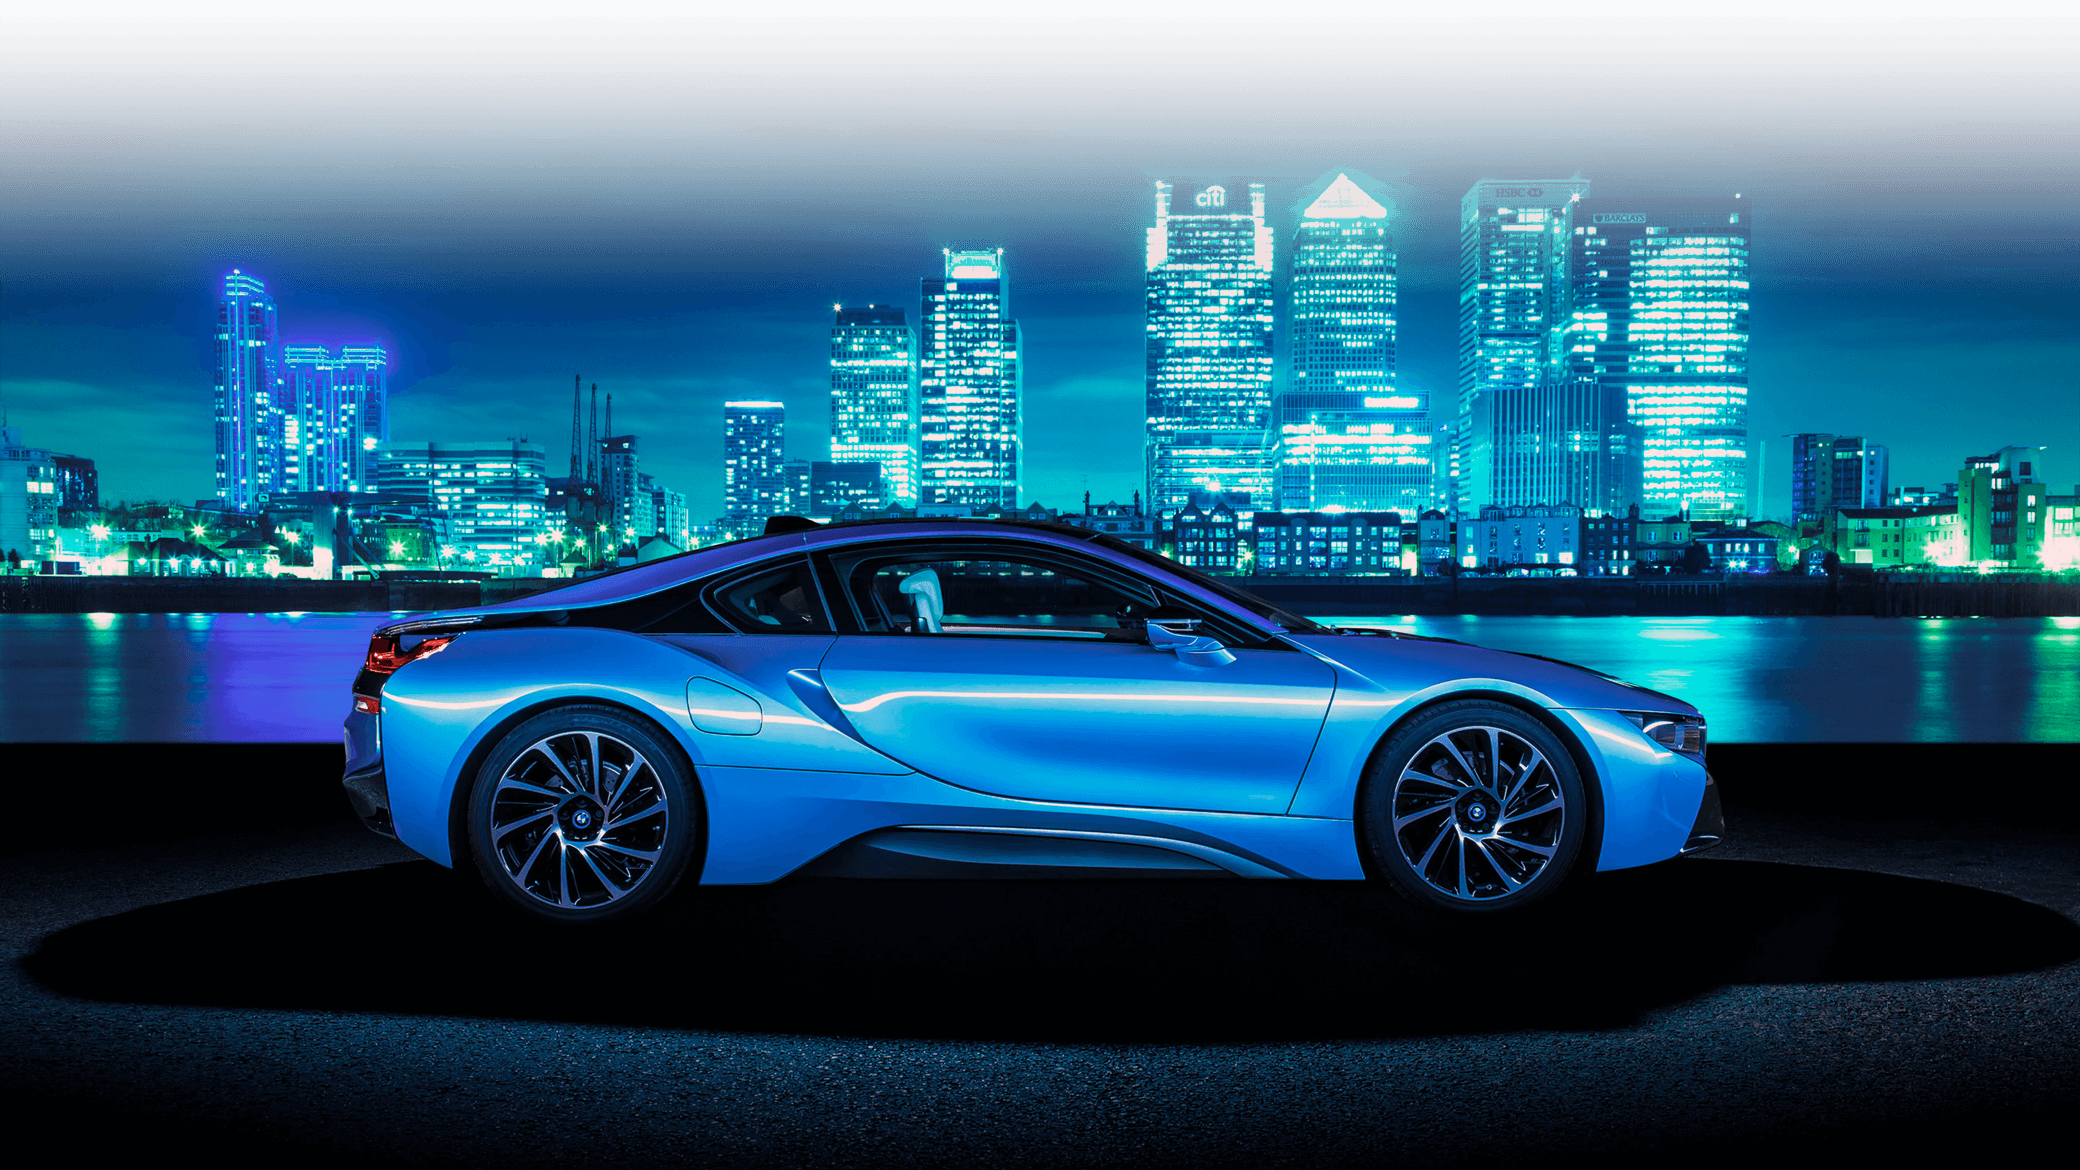
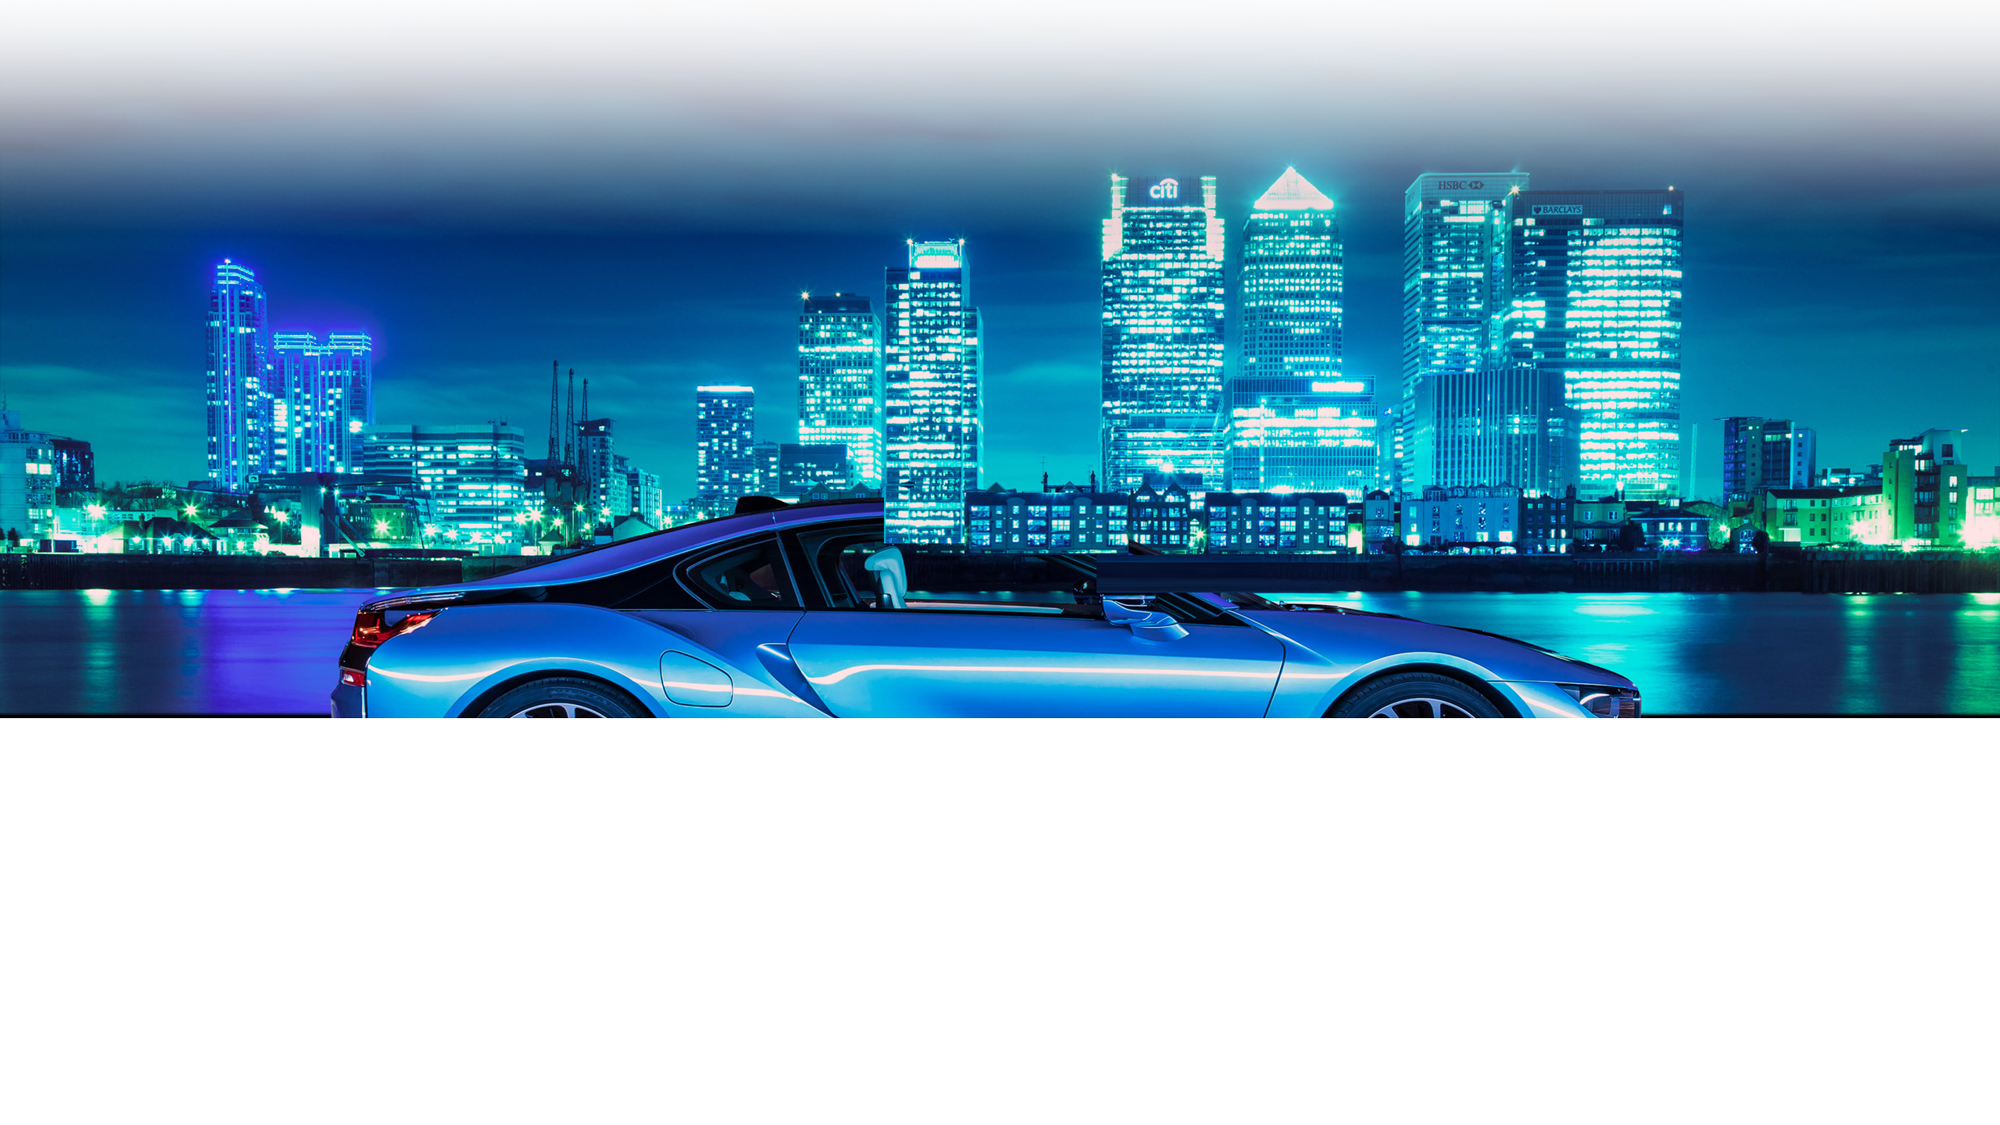
updating homepage

diff --git a/src/modules/index/_index.scss b/src/modules/index/_index.scss
@@ -13,13 +13,116 @@
 
     @include module {
 
+        height: 100vh;
+
         //*********************************************************
         // Core Styles
         //*********************************************************
 
-        background-size: cover;
-        background-repeat: no-repeat;
-        background-position: center -10%;
+        @include component('background') {
+            background-image: url('#{$asset-path}/images/i8-bg.png');
+            background-color: #000e2b;
+            background-size: 100%;
+            background-repeat: no-repeat;
+            background-attachment: fixed;
+            background-position: center 5vw;
+            position: fixed;
+            top: 0;
+            height: 56vw;
+            width: 100%;
+        }
+        
+        @include component('foreground') {
+            background-image: url('#{$asset-path}/images/i8-foreground.png');
+            background-position: center 30vw;
+            background-size: 100%;
+            background-repeat: no-repeat;
+            background-attachment: fixed;
+            position: relative;
+            top: 10%;
+            height: 100%;
+            width: 100%;
+            &:after {
+                content: '';
+                position: absolute;
+                background: #000207;
+                z-index: 0;
+                width: 100%;
+                height: 25%;
+                bottom: -24%;
+            }
+        }
+
+        @include component('intro') {
+            position: relative;
+            padding-bottom: 20%;
+            background-image: url('#{$asset-path}/images/neon-city.png');
+            background-repeat: no-repeat;
+            background-size: 100%;
+            margin-top: 65vw;
+            color: color('greyscale', white);
+            @media (min-width: breakpoint('break-4')) {
+                margin-top: 85vw;
+            }
+            &:before {
+                content: '';
+                background: white;
+                width: 100%;
+                height: 52%;
+                position: absolute;
+                bottom: 0;
+                transform-origin: 0 100%;
+                transform: skewY(-14deg);
+            }
+            @include component('heading') {
+                line-height: 1.3;
+                font-family: 'cyberpnuk2';
+                color: inherit;
+                text-shadow: -3px -3px 0px #fe3e64, 2px 2px 0px #36fd61;
+            }
+            @include component('content') {
+                font-family: 'cyberpnuk2';
+                font-size: font-size('size-4');
+                margin-top: 2.5em;
+                margin-bottom: 3em;
+            }
+        }
+
+        @include component('ribbon') {
+            position: relative;
+            background-color: #0086c9;
+            min-height: 100px;
+            &:before {
+                content: '';
+                pointer-events: none;
+                background: url('#{$asset-path}/images/ribbon.png');
+                background-size: cover;
+                width: 100%;
+                height: 103.5vw;
+                position: absolute;
+                transform: translateY(-100%);
+            }
+        }
+
+        @include component('macbook') {
+            position: relative;
+            @include component('monitor') {
+                position: relative;
+                pointer-events: none;
+                z-index: 2;
+            }
+            @include component('screen') {
+                position: absolute;
+                width: 92.1%;
+                height: 58.3%;
+                left: 4%;
+                top: 4%;
+                overflow: hidden;
+                img {
+                    //transition: 30s;
+                }
+            }
+        }
 
         //*********************************************************
         // Custom Content

diff --git a/src/modules/utilities/typography/_typography.scss b/src/modules/utilities/typography/_typography.scss
@@ -21,41 +21,31 @@
             // Fonts
             //*****************************************************
 
-            @each $typeface, $options in this('typefaces') {
-                // Name of desired font family
-                $font-family: nth($options, 1);
+            @each $font, $options in this('fonts') {
+                // variables
+                $type       : map-get($options, 'type');
+                $family     : map-get($options, 'family');
+                $import-name: str-replace($family, ' ', '+');
+                $styles     : str-replace((inspect(map-get($options, 'styles'))), ' ', '');
 
-                // Convert to a value @import can use
-                $font-name: str-replace($font-family, ' ', '+');
-
-                // Desired font styles
-                $font-styles: list-remove($options, $font-family);
-
-                // Convert to string and remove spaces
-                $font-styles: str-replace((inspect($font-styles)), ' ', '');
-
-                // String to be appended to Google Fonts url
-                $google-font: $font-name + ':' + $font-styles;
-
-                // import the font from the Google Fonts API
-                @if this('import-fonts') {
-                    @import url(http://fonts.googleapis.com/css?family=#{$google-font});
+                @if $type == 'google-font' {
+                    @import url('http://fonts.googleapis.com/css?family=#{$import-name}:#{$styles}');
                 }
 
-                // Get index of typeface
-                $index: index(map-keys(this('typefaces')), $typeface);
-
-                .font-#{$index}, .font-#{$typeface} {
-                    font-family: $font-family;
+                @if $type == 'asset' {
+                    @font-face {
+                        font-family: $family;
+                        src: 
+                            url('#{$asset-path}/fonts/#{$family}/#{$family}.woff2') format('woff2'),
+                            url('#{$asset-path}/fonts/#{$family}/#{$family}.woff') format('woff');
+                    }   
                 }
-            }
 
-            @font-face {
-                font-family: 'aaaiight_fatregular';
-                src: url('../../fonts/aaaiight-fat/aaaiight-fat-webfont.woff2') format('woff2'),
-                     url('../../fonts/aaaiight-fat/aaaiight-fat-webfont.woff')  format('woff');
-                font-weight: normal;
-                font-style: normal;
+                @if this('font-helper-classes') {
+                    .font-#{$family} {
+                        font-family: $family;
+                    }
+                }
             }
 
             //*****************************************************
@@ -120,7 +110,7 @@
 /// @param {string} $typeface - the desired typeface value
 /// @param {string|list} $fallback - the desired fallback typefaces
 @function typeface($typeface, $fallback: ('Open Sans', 'Helvetica Neue', 'Helvetica', 'Arial', sans-serif)) {
-    @return nth(typography('typefaces', $typeface), 1) + ', ' + inspect($fallback);
+    @return map-get(typography('fonts', $typeface), 'family') + ', ' + inspect($fallback);
 }
 
 /// Function to get value from 'sizes' group

diff --git a/src/modules/objects/header/_header.scss b/src/modules/objects/header/_header.scss
@@ -20,7 +20,30 @@
         // Core Styles
         //*********************************************************
 
+        background: linear-gradient(rgba(black, 0), rgba(black, 0));
+        transition: background core('transition');
         overflow: visible;
+        position: absolute;
+        top: 1em;
+        z-index: 2;
+        width: 100%;
+
+        &:after {
+            opacity: 0;
+            transition: core('transition');
+            content: '';
+            height: 7px;
+            position: absolute;
+            bottom: -7px;
+            width: 100%;
+            background: linear-gradient(to right, 
+                #f05878, #e5388a, #9e33e6, #1d76e3, #04caf5
+            );
+        }
+        
+        a {
+            text-decoration: none;
+        }
 
         //*********************************************************
         // Settings
@@ -35,9 +58,15 @@
             margin-top: 0;
         }
 
-        // Sticky Header
         @include option('sticky') {
-            @include get-styles(this('sticky'));
+            @include modifier('fixed') {
+                background: linear-gradient(color('greyscale', 'grey-5'), color('greyscale', 'grey-6'));
+                font-size: font-size('size-2');
+                top: 0;
+                &:after {
+                    opacity: 1;
+                }
+            }
         }
 
         //*********************************************************
@@ -55,18 +84,14 @@
         }
 
         @include component('logo') {
-            font-family: 'aaaiight_fatregular';
-            
-            @include component('primary') {
-                color: white;
+            transition: core('transition');
+
+            @include component('forename') {
+                color: color('greyscale', white);
             }
                         
-            @include component('secondary') {
+            @include component('surname') {
                 color: color('brand', 'brand-1');
-            }
-
-            a {
-                text-decoration: none;
             }
         }
         

diff --git a/src/modules/index/index.js b/src/modules/index/index.js
@@ -1,0 +1,48 @@
+import * as app from '../../app';
+import defaults from './index.json';
+
+/**
+ * Index
+ * 
+ * @access public
+ * 
+ * @param {(String|HTMLElement|NodeList)} els
+ * @param {Object} custom
+ */
+export function index(els = 'i8', custom = {}) {
+
+    custom = app.custom('index', custom);
+
+    app.Synergy(els, (el, options) => {    
+
+        $(window).on('scroll', function() {
+            var scrollTop = $(this).scrollTop();
+
+            $('.i8_background').css({
+                'transform': 'translateY(' + scrollTop/-4 + 'px)'
+            });
+
+            $('.i8_foreground').css({
+                'transform': 'translateY(' + scrollTop/-6 + 'px)'
+            });
+
+            if (app.media('min-width', 'break-4', app)) {
+                if (app.inViewport({target: document.querySelector('.i8_intro')})) {
+                    $('.i8_intro').css({
+                        'background-position-y': (0.2 * scrollTop) - 200 + 'px'
+                    });
+                }
+                if (app.inViewport({target: document.querySelector('.i8_macbook')})) {
+                    $('.i8_macbook_screen img').css({
+                        'transform': 'translateY(' + scrollTop/-1 + 'px)'
+                    });
+                }
+            }
+        });
+
+    }, defaults, custom, app.evalConfig);
+
+    app.config.index = app.parse(defaults.index, custom);
+
+    return exports;
+}

diff --git a/src/modules/objects/header/header.js b/src/modules/objects/header/header.js
@@ -26,7 +26,7 @@ export function header(els = 'header', custom = {}) {
             return toggleStickyHeader({
                 type: (window.scrollY > stickyOffset) ? 'stick' : 'unstick', 
                 target: el,
-                navigation: app.Synergy(options.navigation).query[0],
+                navigation: options.navigation ? app.Synergy(options.navigation).query[0] : '',
                 overlay: options.overlay,
                 dropdownShowOverlay: exports.dropdownShowOverlay,
                 dropdownHideOverlay: exports.dropdownHideOverlay,

diff --git a/src/tools/js/app.evalConfig.js b/src/tools/js/app.evalConfig.js
@@ -71,7 +71,7 @@ function evalValue(value) {
             }
 
             else if (FUNC_NAME === 'typeface') {
-                value = app.config.typography.typefaces[PARAMS[0]];
+                value = app.config.typography.fonts[PARAMS[0]];
             }
 
             else if (FUNC_NAME === 'font-size') {
